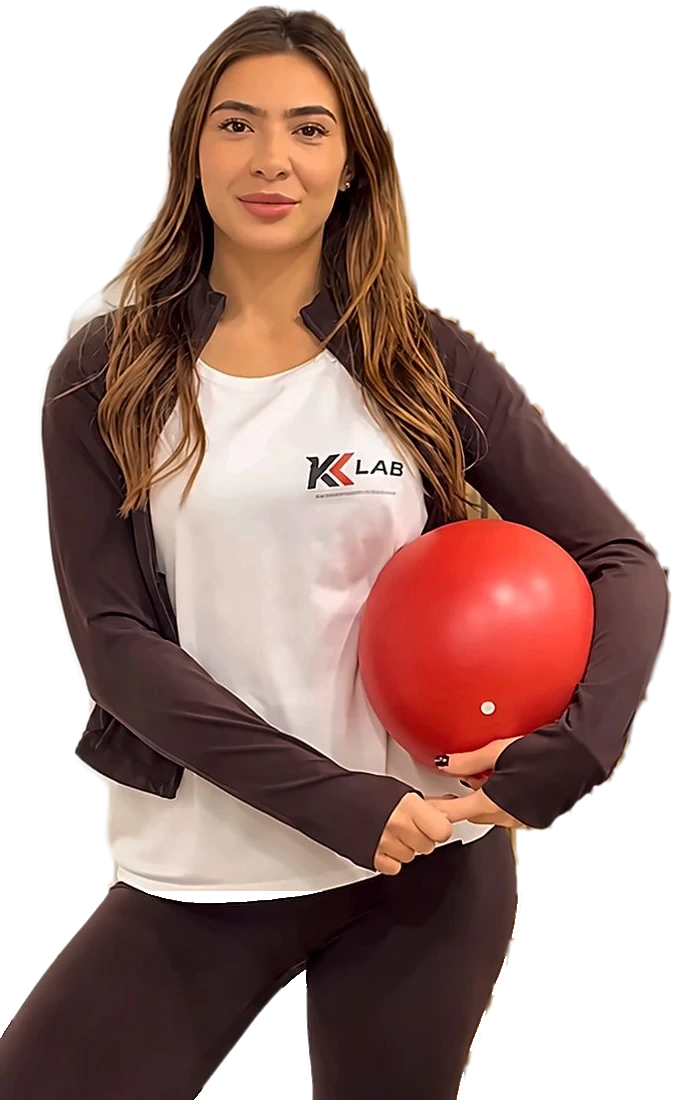
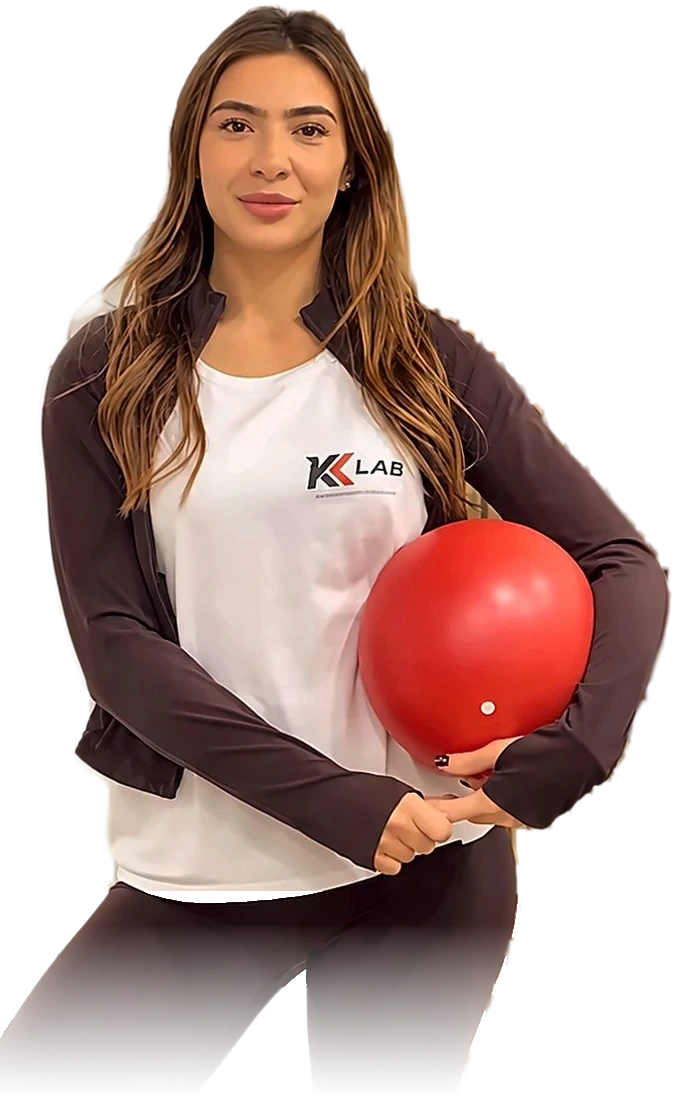
Home: sezioni centrate, Valerio e Chiara con contorno arancio, foto vera della sala
- Personal training, Pilates e Functional di gruppo tutte con layout centrato (.disc.mid)
- Valerio e Chiara senza cornice: bordo illuminato di arancio (drop-shadow), basso sfumato
- Functional: foto della sala (fermo immagine 1300 px) al posto del render 3D
- Etichette: Personal training, Functional di gruppo

Claude-Session: https://claude.ai/code/session_01Dkgg7PSUWnhATau7aG1SC2

Changed region(s): [[0.0, 0.8345, 0.7456, 1.0]]

diff --git a/public/home.css b/public/home.css
@@ -102,10 +102,11 @@ h2 { font: 700 clamp(2.8rem, 6.4vw, 5.6rem)/.92 var(--display); letter-spacing: 
 .disc .in { display: grid; grid-template-columns: minmax(0, 1fr); gap: 2rem; align-items: center; max-width: 76rem; margin-inline: auto; padding: clamp(3.5rem, 9vw, 7rem) var(--gut); }
 .ph { width: min(100%, 34rem, calc(72svh * .8)); justify-self: center; }
 .ph img { width: 100%; height: auto; aspect-ratio: 4 / 5; object-fit: cover; background: #111; }
-/* Valerio e Chiara: ritagli senza sfondo, in piedi sul bordo basso della cornice, con un alone arancio dietro (come nel percorso) */
-.ph.cut { position: relative; aspect-ratio: 4 / 5; overflow: hidden; background: radial-gradient(78% 58% at 50% 40%, rgba(232, 96, 40, .62), rgba(232, 96, 40, .17) 58%, rgba(232, 96, 40, 0) 100%), #0c0c0e; }
-.ph.cut img { position: absolute; inset: 0; height: 100%; aspect-ratio: auto; object-fit: contain; object-position: 50% 100%; background: none; }
-/* Functional: la sala del percorso 3D (il gruppo con i kettlebell), in formato largo */
+/* Valerio e Chiara: ritagli senza sfondo, senza cornice; il bordo della figura è illuminato di arancio (alone dietro il contorno, sfumato in basso nell'immagine) */
+.ph.cut { width: auto; max-width: 100%; }
+.ph.cut img { display: block; width: auto; max-width: 100%; height: clamp(19rem, 58svh, 36rem); aspect-ratio: auto; object-fit: contain; background: none; margin-inline: auto;
+  filter: drop-shadow(0 0 1px rgba(255, 150, 90, .95)) drop-shadow(0 0 .55rem rgba(232, 96, 40, .85)) drop-shadow(0 0 2rem rgba(232, 96, 40, .5)); }
+/* Functional di gruppo: la foto della sala, in formato largo */
 .ph.wide { width: min(100%, 62rem, calc(80svh * 1.5)); }
 .ph.wide img { aspect-ratio: 3 / 2; }
 .label { display: inline-block; margin-bottom: 1.2rem; padding: .5rem .95rem .42rem; border-radius: 999px; background: var(--orange); color: #000; font: 700 1.35rem/1 var(--display); letter-spacing: .14em; text-transform: uppercase; }
@@ -113,13 +114,14 @@ h2 { font: 700 clamp(2.8rem, 6.4vw, 5.6rem)/.92 var(--display); letter-spacing: 
 .motto { display: block; margin-bottom: .55rem; font: 700 clamp(1.65rem, 1.9vw, 1.85rem)/1.05 var(--display); letter-spacing: .07em; text-transform: uppercase; color: var(--fg); }
 .who { margin-top: 1.5rem; font-size: .95rem; color: var(--mute); }
 .more { margin-top: 1.6rem; }
+.disc.mid .in { justify-items: center; text-align: center; }
+.disc.mid .lead { margin-inline: auto; max-width: 36rem; }
 .more .btn { min-height: 3.1rem; }
 @media (min-width: 900px) {
   .disc .in { grid-template-columns: repeat(2, minmax(0, 1fr)); gap: clamp(3rem, 8vw, 9rem); max-width: var(--wide); }
   .disc.rev .ph { order: 2; }
-  /* versione tutta centrata (Functional): la sala in alto, sotto il testo al centro */
-  .disc.mid .in { grid-template-columns: minmax(0, 1fr); justify-items: center; gap: clamp(2rem, 4vw, 3.2rem); text-align: center; }
-  .disc.mid .lead { margin-inline: auto; max-width: 36rem; }
+  /* tutte e tre le sezioni sono centrate: foto in alto, sotto il testo al centro */
+  .disc.mid .in { grid-template-columns: minmax(0, 1fr); gap: clamp(2rem, 4vw, 3.2rem); }
   .disc h2 { font-size: clamp(2.6rem, 5vw, 5.2rem); }
 }
 

diff --git a/public/index.html b/public/index.html
@@ -62,11 +62,11 @@
     <a class="scroll" href="#personale" aria-label="Scorri alle discipline"><svg viewBox="0 0 24 24" aria-hidden="true"><path d="M5 9l7 7 7-7"/></svg></a>
   </section>
 
-  <section class="disc" id="personale" aria-labelledby="h-pers">
+  <section class="disc mid" id="personale" aria-labelledby="h-pers">
     <div class="in">
       <figure class="ph cut"><img src="/img/ritaglio-valerio.webp" width="563" height="626" loading="lazy" decoding="async" alt="Valerio Cuscianna, fondatore di KUKO LAB"></figure>
       <div class="copy">
-        <p class="label">Allenamento personale</p>
+        <p class="label">Personal training</p>
         <h2 id="h-pers">Un percorso costruito su di te.</h2>
         <p class="lead">Allenamenti individuali, obiettivi personalizzati e un professionista al tuo fianco per accompagnarti in ogni progresso.</p>
         <p class="who">Con Valerio Cuscianna, fondatore di KUKO LAB</p>
@@ -75,7 +75,7 @@
     </div>
   </section>
 
-  <section class="disc rev" id="pilates" aria-labelledby="h-pil">
+  <section class="disc mid" id="pilates" aria-labelledby="h-pil">
     <div class="in">
       <figure class="ph cut"><img src="/img/ritaglio-chiara.webp" width="676" height="1100" loading="lazy" decoding="async" alt="Chiara, istruttrice di Pilates di KUKO LAB, con una pallina da Pilates"></figure>
       <div class="copy">
@@ -90,9 +90,9 @@
 
   <section class="disc mid" id="funzionale" aria-labelledby="h-fun">
     <div class="in">
-      <figure class="ph wide"><picture><source media="(min-width: 700px)" srcset="/img/funzionale-sala.jpg"><img src="/img/funzionale-sala-m.jpg" width="900" height="600" loading="lazy" decoding="async" alt="Allenamento funzionale: il gruppo si allena con i kettlebell nella sala di KUKO LAB (illustrazione 3D)"></picture></figure>
+      <figure class="ph wide"><picture><source media="(min-width: 700px)" srcset="/img/palestra-sala.jpg"><img src="/img/palestra-sala-m.jpg" width="900" height="600" loading="lazy" decoding="async" alt="La sala di KUKO LAB: il rack con i dischi e gli attrezzi per l'allenamento di gruppo"></picture></figure>
       <div class="copy">
-        <p class="label">Allenamento funzionale</p>
+        <p class="label">Functional di gruppo</p>
         <h2 id="h-fun">Più energia. Più movimento. Insieme.</h2>
         <p class="lead">Allenarsi in gruppo, superare i propri limiti e trovare la motivazione nella condivisione.</p>
         <p class="more"><a class="btn ghost" href="/functional">Scopri di più<span class="sr"> sull'allenamento funzionale</span></a></p>

diff --git a/README.md b/README.md
@@ -160,4 +160,4 @@ tests/             prove delle regole e dei dati demo
 
 Font Big Shoulders e Instrument Sans (vetrina) e Montserrat (app), tutti con licenza SIL Open Font License, inclusi in `public/fonts/`.
 
-**La pagina principale** (`public/index.html`, indirizzo `/`; stile `public/home.css`, script `public/home.js`; `/percorso` rimanda a `/`). Sostituisce il percorso 3D, che si recupera dalla storia di git (ultimo commit con il 3D: `8a0fd97`, branch `main` prima di questa versione). **Prima schermata** minimale: un **marchio animato** (SVG in `public/index.html`, animazione in `public/home.css`, generato da `python3 scripts/wordmark.py` a partire da `public/img/logo-kuko.png`: contorni del logo con OpenCV, più le lettere U K O disegnate a mano con lo stesso carattere di LAB). Si vede il logo (K con la freccia arancio e LAB) che si allarga: la K va a sinistra, LAB a destra, tra i due entrano U K O e i riempimenti spariscono, così «KUKOLAB» resta solo contornato (contorno bianco, freccia arancio, `vector-effect: non-scaling-stroke`). Dura circa 3 secondi, è solo CSS; con «riduci movimento» o senza animazioni si vede subito lo stato finale. Poi lo slogan «Il tuo benessere a 360°» (in maiuscolo, `text-transform`), tre bottoni pieni arancio (**Personal**, **Pilates**, **Functional**, che portano alle tre pagine dei corsi) e sotto **Scrivici su WhatsApp**, col solo contorno e più piccolo (su schermi larghi, da 1000px, scende in fondo alla schermata, sopra la freccia; su telefono e tablet in verticale resta sotto i tre bottoni). Tutti i bottoni e le etichette della home hanno gli angoli completamente arrotondati (`border-radius: 999px`). Una freccia in basso porta alle sezioni. La testata (logo, link ai corsi, «Prenota» che apre WhatsApp) resta nascosta sopra la prima schermata e compare scorrendo (`home.js`, classe `at-top` sul `body`; senza JavaScript è sempre visibile). **Sezioni sotto** (le stesse di prima, senza scena 3D): Personal, Pilates e Funzionale a due colonne (cornice 4:5, una sola persona o scena per sezione: Valerio e Chiara come ritagli senza sfondo, `img/ritaglio-valerio.webp` e `img/ritaglio-chiara.webp` (quelli del percorso 3D; sul bordo basso della cornice, con un alone arancio dietro, classe `.ph.cut`), Functional: la sala del percorso 3D con il gruppo e i kettlebell, immagine larga `img/funzionale-sala.jpg` (e `-m` per telefono; schermate fatte con il vecchio percorso, commit `8a0fd97`) e, da 900px, layout tutto centrato (`.disc.mid`); e testo, a specchio tra Pilates e le altre; su telefono foto sopra e testo sotto), la frase di chiusura «Un corpo. Tre discipline. Un percorso completo.» (`#contatti`) con i due inviti WhatsApp, «Non solo allenamento» (`#benessere`: nutrizionista, osteopata e fisioterapista sopra una linea con tre tappe che si riempie quando entra nella vista; su telefono le tre figure scorrono in orizzontale con i puntini), Instagram (due copertine di reel), Contatti (`#dove`) e il piede. Gli id `#personale`, `#pilates` e `#funzionale` servono alle pagine dei corsi (`/#personale`…): `npm run site` si ferma se mancano. Le figure di nutrizionista, osteopata e fisioterapista sono `img/pro-*.webp` (ritagli con trasparenza delle persone che erano nel 3D, generati allora con gli script `percorso-*.py`, tolti da questa versione ma presenti nella storia di git); osteopata e fisioterapista non hanno ancora nome né foto e i loro testi sono quelli generici di `src/data/professionals.json`: da far confermare ai professionisti prima di pubblicare. Su schermi larghi (da 1100px) Instagram e Contatti usano tutta l'ampiezza (`--wide` e `clamp()` in `home.css`). Con «riduci movimento» non c'è nessuna animazione (resta solo lo scorrimento normale). Prima di pubblicarla: numero WhatsApp (lo stesso di `vetrina/site.json`) e, al go-live, togliere `noindex`.
+**La pagina principale** (`public/index.html`, indirizzo `/`; stile `public/home.css`, script `public/home.js`; `/percorso` rimanda a `/`). Sostituisce il percorso 3D, che si recupera dalla storia di git (ultimo commit con il 3D: `8a0fd97`, branch `main` prima di questa versione). **Prima schermata** minimale: un **marchio animato** (SVG in `public/index.html`, animazione in `public/home.css`, generato da `python3 scripts/wordmark.py` a partire da `public/img/logo-kuko.png`: contorni del logo con OpenCV, più le lettere U K O disegnate a mano con lo stesso carattere di LAB). Si vede il logo (K con la freccia arancio e LAB) che si allarga: la K va a sinistra, LAB a destra, tra i due entrano U K O e i riempimenti spariscono, così «KUKOLAB» resta solo contornato (contorno bianco, freccia arancio, `vector-effect: non-scaling-stroke`). Dura circa 3 secondi, è solo CSS; con «riduci movimento» o senza animazioni si vede subito lo stato finale. Poi lo slogan «Il tuo benessere a 360°» (in maiuscolo, `text-transform`), tre bottoni pieni arancio (**Personal**, **Pilates**, **Functional**, che portano alle tre pagine dei corsi) e sotto **Scrivici su WhatsApp**, col solo contorno e più piccolo (su schermi larghi, da 1000px, scende in fondo alla schermata, sopra la freccia; su telefono e tablet in verticale resta sotto i tre bottoni). Tutti i bottoni e le etichette della home hanno gli angoli completamente arrotondati (`border-radius: 999px`). Una freccia in basso porta alle sezioni. La testata (logo, link ai corsi, «Prenota» che apre WhatsApp) resta nascosta sopra la prima schermata e compare scorrendo (`home.js`, classe `at-top` sul `body`; senza JavaScript è sempre visibile). **Sezioni sotto** (le stesse di prima, senza scena 3D): **Personal training**, **Pilates** e **Functional di gruppo**, tutte e tre con il layout centrato (`.disc.mid`: figura in alto, sotto etichetta, titolo, testo e bottone al centro, a ogni larghezza). Valerio e Chiara sono ritagli senza sfondo e senza cornice (`img/ritaglio-valerio.webp` e `img/ritaglio-chiara.webp`, quelli del percorso 3D, con il bordo basso sfumato nella trasparenza dell'immagine): il contorno della figura è illuminato di arancio con tre `drop-shadow` sovrapposti (classe `.ph.cut`, in `home.css`). Functional di gruppo usa una foto vera della sala (il rack con i dischi), ritagliata 3:2 dal fermo immagine del video del cliente `IMG_8777` (1300 px di larghezza, senza ingrandimenti): `img/palestra-sala.jpg` e `img/palestra-sala-m.jpg` per telefono; resta un fermo immagine di video, per avere il massimo servirebbe una foto originale della fotocamera. la frase di chiusura «Un corpo. Tre discipline. Un percorso completo.» (`#contatti`) con i due inviti WhatsApp, «Non solo allenamento» (`#benessere`: nutrizionista, osteopata e fisioterapista sopra una linea con tre tappe che si riempie quando entra nella vista; su telefono le tre figure scorrono in orizzontale con i puntini), Instagram (due copertine di reel), Contatti (`#dove`) e il piede. Gli id `#personale`, `#pilates` e `#funzionale` servono alle pagine dei corsi (`/#personale`…): `npm run site` si ferma se mancano. Le figure di nutrizionista, osteopata e fisioterapista sono `img/pro-*.webp` (ritagli con trasparenza delle persone che erano nel 3D, generati allora con gli script `percorso-*.py`, tolti da questa versione ma presenti nella storia di git); osteopata e fisioterapista non hanno ancora nome né foto e i loro testi sono quelli generici di `src/data/professionals.json`: da far confermare ai professionisti prima di pubblicare. Su schermi larghi (da 1100px) Instagram e Contatti usano tutta l'ampiezza (`--wide` e `clamp()` in `home.css`). Con «riduci movimento» non c'è nessuna animazione (resta solo lo scorrimento normale). Prima di pubblicarla: numero WhatsApp (lo stesso di `vetrina/site.json`) e, al go-live, togliere `noindex`.
